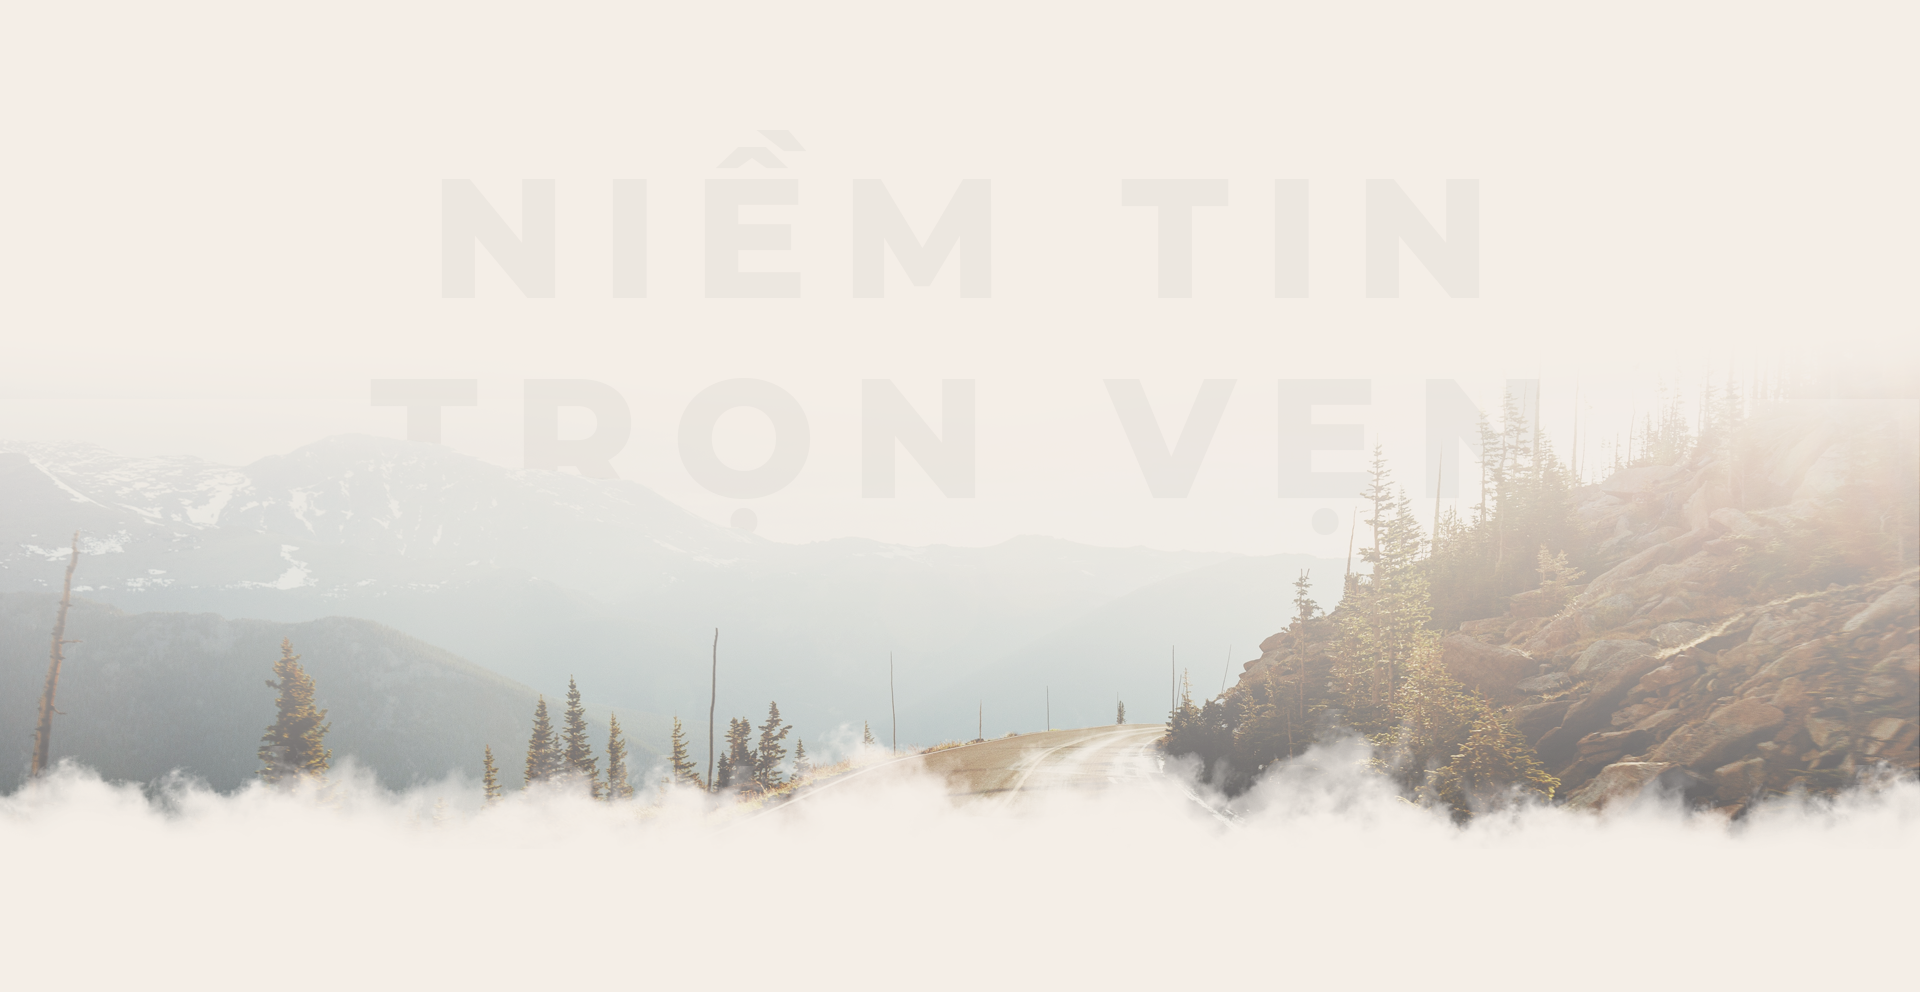
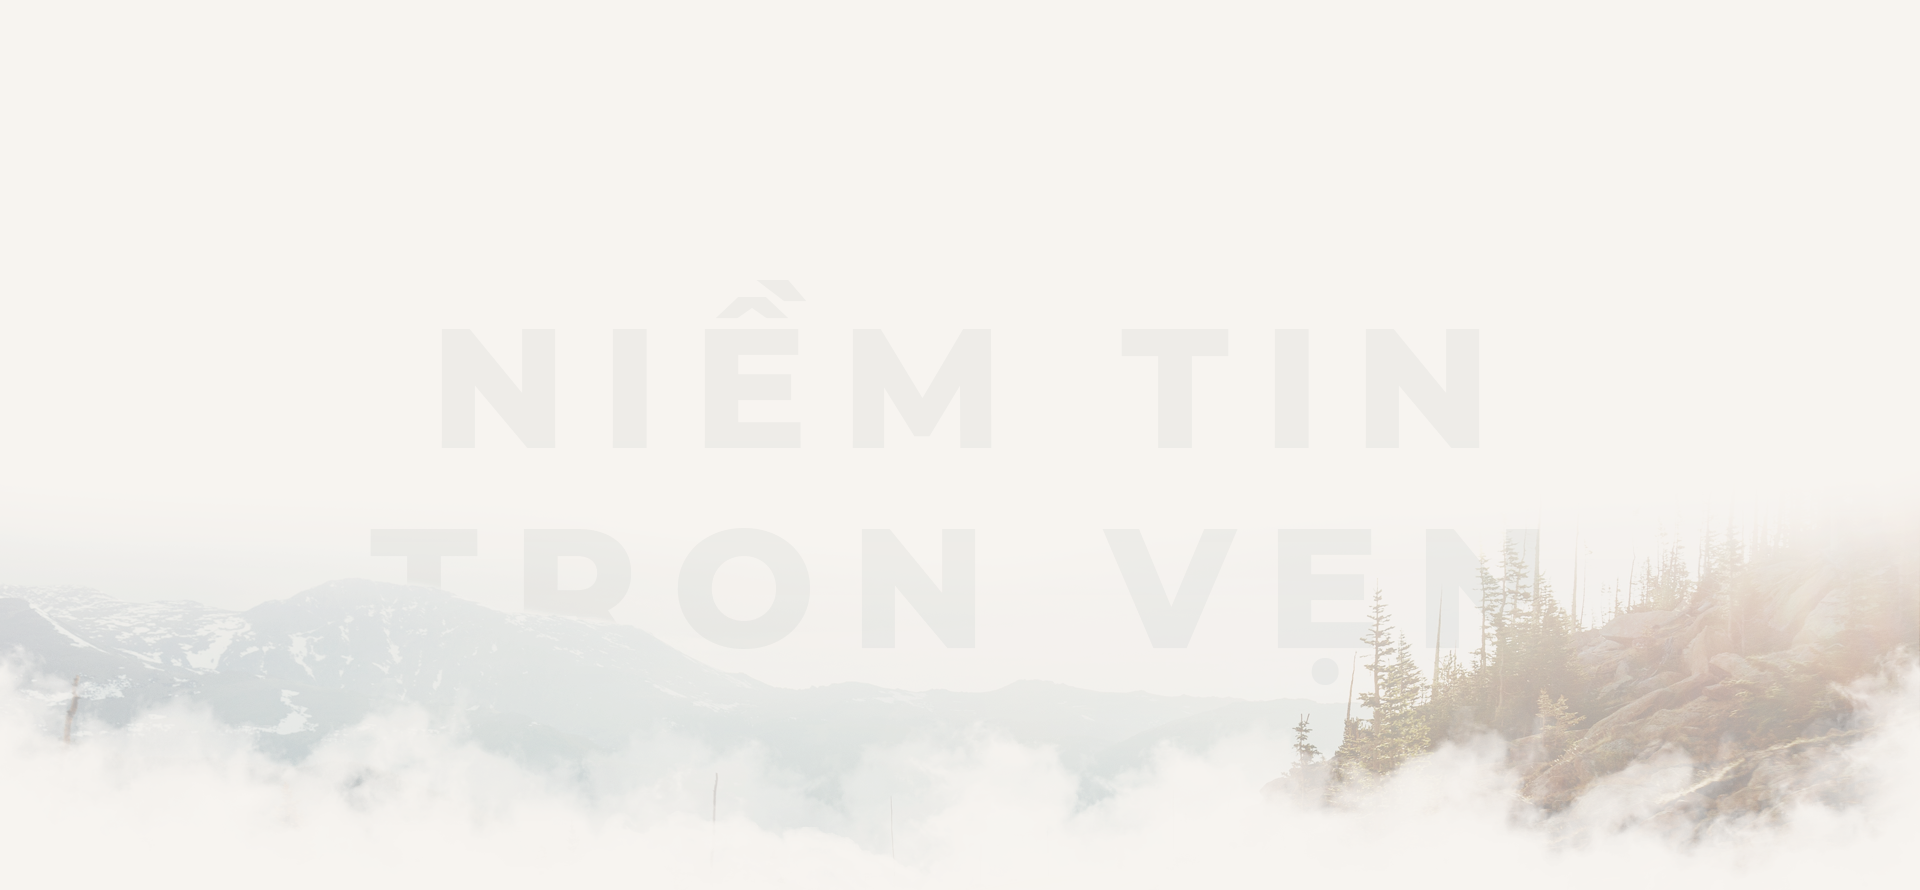
fix ok

Changed region(s): [[0.0, 0.3944, 1.0, 0.9404], [0.4062, 0.8494, 0.4375, 0.9101], [0.5625, 0.8798, 0.5938, 0.9101]]

diff --git a/resources/css/main.css b/resources/css/main.css
@@ -825,7 +825,8 @@ a.btn {
     position: relative;
 }
 
-.image-tower {
+
+/* .image-tower {
     position: absolute;
     right: 0;
     bottom: -8rem;
@@ -840,7 +841,7 @@ a.btn {
     top: 0;
     left: 0;
     object-fit: cover;
-}
+} */
 
 .map-info-content-right h1 {
     font-size: 3.8rem;
@@ -886,9 +887,9 @@ a.btn {
 }
 
 .utilities p {
+    color: rgba(62, 86, 84, 0.702);
     font-family: 'Montserrat Regular';
     font-size: 1.6rem;
-    color: rgb(125, 115, 114);
     line-height: 1.875;
     max-width: 770px;
     margin: auto;
@@ -1264,27 +1265,40 @@ a.btn {
 
 .design-building-content {
     height: 100%;
-    max-width: 100%;
+    max-width: calc(100% + 8rem);
     margin-left: -80px;
     background-color: transparent;
-    padding-top: 73px;
-    padding-bottom: 73px;
+    padding-top: 7.3rem;
+    padding-bottom: 7.3rem;
+}
+
+.container-pattern-design-building {
+    position: absolute;
+    top: 50%;
+    right: -7rem;
+    max-width: 18.2rem;
+    transform: translateY(-50%);
+    -moz-transform: translateY(-50%);
+    -webkit-transform: translateY(-50%);
+    -o-transform: translateY(-50%);
+    -ms-transform: translateY(-50%);
 }
 
 .inner-design-building-content {
     background-color: #0d3f39;
     width: 100%;
     height: 100%;
-    padding-left: 80px;
-    padding-top: 80px;
-    padding-right: 78px;
+    padding-left: 8rem;
+    padding-top: 8rem;
+    padding-right: 8rem;
+    position: relative;
 }
 
 .inner-design-building-content h1 {
     text-align: left;
     font-size: 4.2rem;
     font-family: "Playfair Display";
-    color: rgb(62, 53, 52);
+    color: rgb(255, 255, 255);
     line-height: 1.429;
     margin-bottom: 1.5rem;
 }
@@ -1462,6 +1476,15 @@ a.btn {
     transform-origin: 50% 50%;
     top: -26px;
     right: -26px;
+}
+
+.vignette-pattern-left {
+    position: absolute;
+    left: 0;
+}
+
+#gioi-thieu {
+    background-color: #f7f4f0
 }
 
 .quick-alo-ph-circle-fill {
@@ -1753,6 +1776,7 @@ a.btn {
     left: 0;
     bottom: 0;
     text-align: left;
+    border-top-right-radius: 5px;
 }
 
 .time-post span {
@@ -1765,13 +1789,13 @@ a.btn {
 
 .time-post i {
     font-size: 1.2rem;
-    color: #0b8171;
+    color: #ddb185;
 }
 
 .intro-post h2 {
     font-size: 2.2rem;
     font-family: "Montserrat SemiBold";
-    color: rgb(62, 53, 52);
+    color: rgb(62, 86, 84);
     font-weight: bold;
     line-height: 1.545;
     text-align: left;
@@ -1782,7 +1806,7 @@ a.btn {
 .intro-post p {
     font-size: 1.6rem;
     font-family: "Montserrat Regular";
-    color: rgb(125, 115, 114);
+    color: rgb(62, 86, 84);
     line-height: 1.875;
     text-align: left;
     margin-bottom: 3rem;
@@ -1823,7 +1847,7 @@ a.btn {
 .more-info .more-info-title {
     font-size: 1.4rem;
     font-family: "Montserrat Bold";
-    color: rgb(153, 96, 73);
+    color: rgb(62, 86, 84);
     font-weight: bold;
     text-transform: uppercase;
     text-align: left;
@@ -1864,15 +1888,22 @@ a.btn {
     margin-top: -26.3rem;
 }
 
+.container-logo-niem-tin-tron-ven {
+    left: 0;
+    right: 0;
+    margin: 0 auto;
+    margin-bottom: 3rem;
+}
+
 .text-slider {
     text-align: center;
     background: transparent url('../img/niem_tin_tron_ven.png') no-repeat scroll center center;
     background-size: cover;
     background-repeat: no-repeat;
     background-position: center center;
-    padding-bottom: 41rem;
+    padding-bottom: 12rem;
     padding-top: 0;
-    margin-top: 25rem;
+    margin-top: 5.5rem;
     position: relative;
 }
 
@@ -1898,14 +1929,9 @@ a.btn {
     content: url('../img/facebook-header-scroll.png');
 }
 
-.text-slider::before {
-    position: absolute;
-    top: -16rem;
-    left: 50%;
-    height: 10rem;
-    width: 2px;
-    background-color: #1a1b1e;
-    content: "";
+.container-logo-niem-tin-tron-ven img {
+    max-width: 410px;
+    width: 41.1rem;
 }
 
 .project-feed {
@@ -2140,7 +2166,7 @@ a.btn {
 .call-phone-footer {
     width: 4.2rem;
     height: 4.2rem;
-    background: #e5b360 url(../img/phone-icon.png) no-repeat center center;
+    background: #0b877e url(../img/phone-icon.png) no-repeat center center;
     border-radius: 100%;
     border: 2px solid transparent;
     opacity: .99;
@@ -2539,9 +2565,9 @@ a.btn {
         padding-right: 5rem;
         padding-bottom: 8rem;
     }
-    .image-tower {
+    /* .image-tower {
         display: none;
-    }
+    } */
     .map-info-content-right h1 {
         font-size: 2.8rem;
         margin-top: unset;

diff --git a/index.html b/index.html
@@ -44,7 +44,7 @@
             </div>
         </div>
     </div>
-    <div id="loader" style="display: none;">
+    <div id="loader">
         <div class="count">100%</div>
     </div>
     <div class="container-fluid">
@@ -130,6 +130,9 @@
             </p>
         </div>
         <div id="gioi-thieu" class="full-width">
+            <!-- <div class="vignette-pattern-left">
+                <img src="./resources/img/vignette-pattern-left.png">
+            </div> -->
             <div class="detail-infomation">
                 <div data-aos="fade-left" class="info-left aos-init aos-animate">
                     <h1>Thưởng Ngoạn&nbsp;<strong>Mỹ Cảnh</strong><br>
@@ -207,16 +210,12 @@
                         <i class="fa fa-long-arrow-right" aria-hidden="true"></i>
                     </div>
                 </a>
-                <div class="image-tower">
-                    <img src="./resources/img/tower.png" class="img-fluid">
-                </div>
             </div>
         </section>
 
         <section data-aos="fade-up" data-aos-anchor-placement="top-bottom" id="tien-ich" class="utilities">
             <h1><strong>Tiện Ích</strong> Toàn Mỹ</h1>
-            <p class="utilities-intro">Maison de Mộc Châu tạo ra một miền sống mới vượt lên trên cả những chuẩn mực tiện ích từng có. Đó là một đẳng <br> cấp sống thời thượng giao hòa giữa nghệ thuật, thiên nhiên và tiện ích.</p>
-            <img class="img-fluid" src="./resources/img/tien-ich.png">
+            <p>Maison de Mộc Châu tạo ra một miền sống mới vượt lên trên cả những chuẩn mực tiện ích từng có. Đó là một đẳng cấp sống thời thượng giao hòa giữa nghệ thuật, thiên nhiên và tiện ích.</p> <img class="img-fluid" src="./resources/img/tien-ich.png">
 
         </section>
         <section id="kien-truc" class="design-building">
@@ -237,6 +236,9 @@
                                 <i class="fa fa-long-arrow-right" aria-hidden="true"></i>
                             </div>
                         </a>
+                        <div class="container-pattern-design-building">
+                            <img src="./resources/img/vignette-pattern-design-building.png">
+                        </div>
                     </div>
                 </div>
             </div>
@@ -337,6 +339,9 @@
         </section>
 
         <section data-aos="zoom-in-down" class="text-slider">
+            <div class="container-logo-niem-tin-tron-ven text-center">
+                <img src="./resources/img/niem_tin_tron_ven_logo.png">
+            </div>
             <div class="container-text-slider">
                 <div id="owl-carousel-2" class="owl-carousel">
                     <div class="inner-text-slider">
